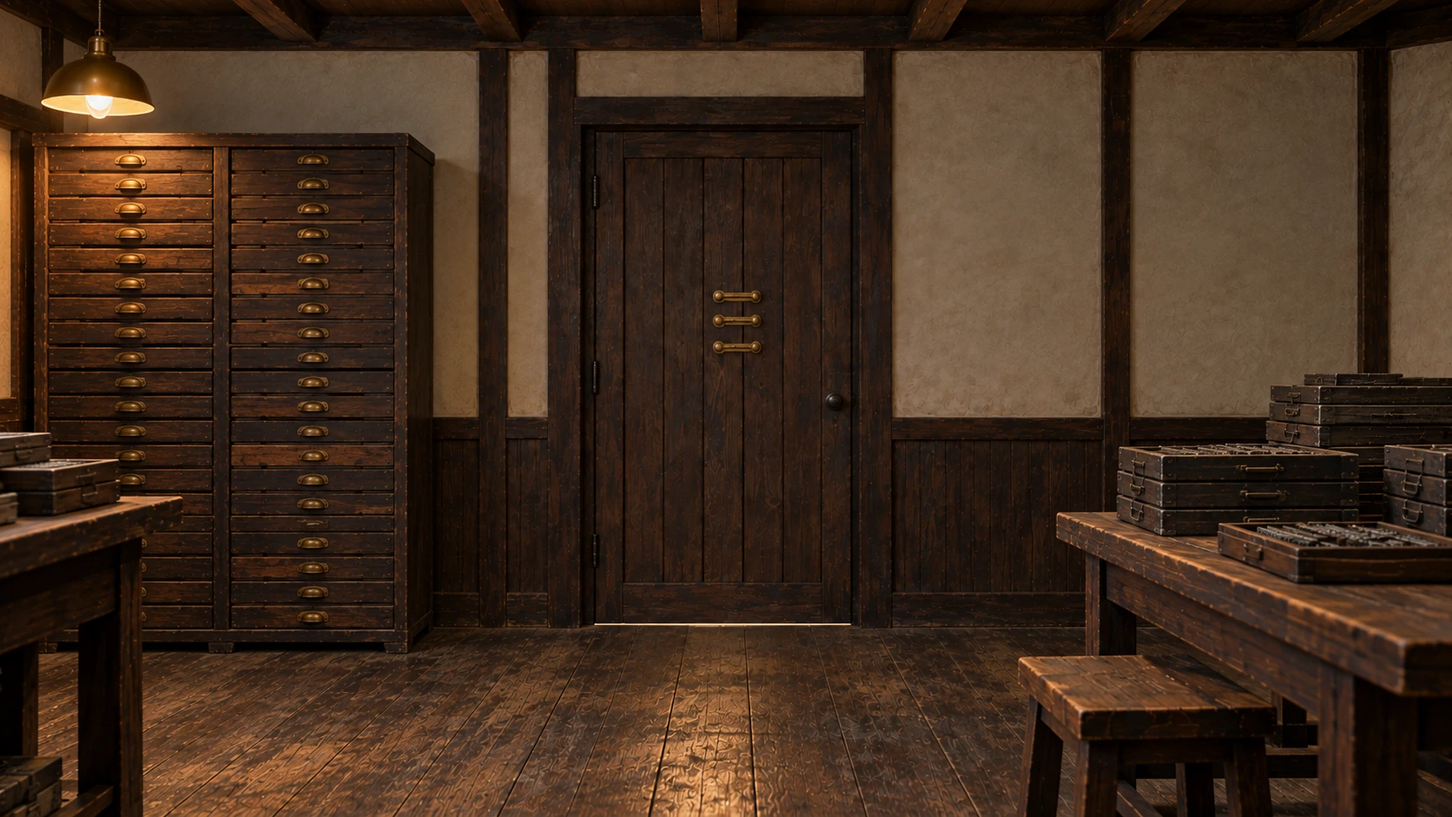
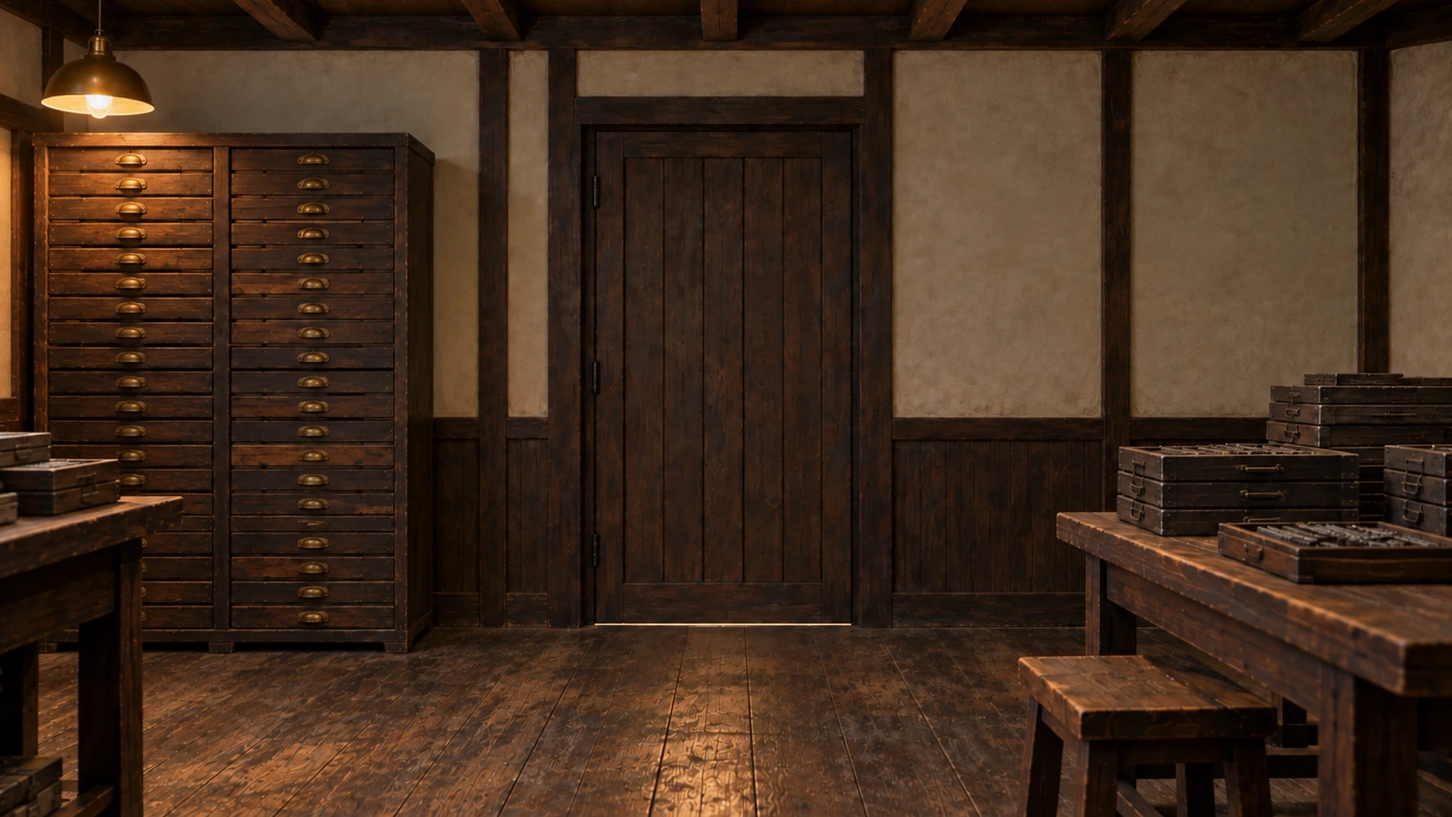
feat(remake): 逃げ溝に沿って外す保守戸とタッチ操作を実装

diff --git a/src/remake/campaign.ts b/src/remake/campaign.ts
@@ -1,3 +1,4 @@
+import {applyKeeper,validKeeper,keeperClear,initialKeeper,type KeeperAction} from './keeper';
 import {matchesSealCode} from './sealOwnership';
 import {applyInterlock,interlockMask,type InterlockAction} from './interlock';
 import {applyThread,type ThreadAction} from './threading';
@@ -11,9 +12,9 @@ export type Focus=ReceptionFocus|`object:${number}`|'office-tickets'|'press-samp
 export type World=Omit<Reception,'version'|'focus'|'inventory'|'selected'>&{version:3;room:number;focus:Focus;inventory:CampaignItem[];selected:CampaignItem|null;visited:number[];lastFacing:Record<number,Facing>;values:Record<number,number[]>;sequences:Record<number,number[]>;solved:number[];opened:number[];collected:CampaignItem[];placed:Record<number,CampaignItem[]>;flags:Record<string,boolean>;notes:string[];itemValues:Record<string,number[]>;finished:boolean;print:PrintState;book:Book};
 export const SAVE='yotsuzuri:remake:v3';
 export const initial=():World=>({...initialReception(),version:3,room:0,visited:[0],lastFacing:{0:0},values:{},sequences:{},solved:[],opened:[],collected:[],placed:{},flags:{},notes:[],itemValues:{},finished:false,print:initialPrint(),book:initialBook()});
-export type Action=InterlockAction|ThreadAction|PressAction|PlateAction|Exclude<ReceptionAction,{type:'focus'}|{type:'select'}>|{type:'focus';focus:Focus}|{type:'select';item:CampaignItem}|{type:'go';room:number;map?:boolean}|{type:'p-set';id:number;values:number[]}|{type:'p-button';id:number;button:number}|{type:'p-release';id:number;index:number}|{type:'p-slide';index:number;position:number}|{type:'p-test';id:number}|{type:'p-open';id:number}|{type:'p-take';id:number;item:CampaignItem}|{type:'p-place';id:number;target?:CampaignItem}|{type:'p-retrieve';id:number;item:CampaignItem}|{type:'observe';note:string}|{type:'item-arrange';item:CampaignItem;values:number[]}|{type:'secret'}|{type:'exit-insert'}|{type:'exit-turn'}|{type:'exit-remove'}|{type:'exit-open'}|{type:'finish'}|{type:'p-cut';id:5}|{type:'p-return-strip';id:5}|{type:'p-paper';id:6;index:number}|{type:'p-book-order';id:30;order:number[]}|{type:'p-book-blank';id:30;position:number}|{type:'p-book-side';id:30}|{type:'p-book-close';id:30}|{type:'p-book-clamp';id:30};
-export function validWorldValue(id:number,values:unknown):values is number[]{if(!Array.isArray(values))return false;if(id===9)return values.length===4&&values.every(n=>Number.isInteger(n)&&n>=0&&n<4);return legacyValidValue(id,values);}
-export const value=(g:World,id:number)=>g.values[id]??(id===11?[7,0]:id===12?[2,0,1,0]:initials[id]);
+export type Action=KeeperAction|InterlockAction|ThreadAction|PressAction|PlateAction|Exclude<ReceptionAction,{type:'focus'}|{type:'select'}>|{type:'focus';focus:Focus}|{type:'select';item:CampaignItem}|{type:'go';room:number;map?:boolean}|{type:'p-set';id:number;values:number[]}|{type:'p-button';id:number;button:number}|{type:'p-release';id:number;index:number}|{type:'p-slide';index:number;position:number}|{type:'p-test';id:number}|{type:'p-open';id:number}|{type:'p-take';id:number;item:CampaignItem}|{type:'p-place';id:number;target?:CampaignItem}|{type:'p-retrieve';id:number;item:CampaignItem}|{type:'observe';note:string}|{type:'item-arrange';item:CampaignItem;values:number[]}|{type:'secret'}|{type:'exit-insert'}|{type:'exit-turn'}|{type:'exit-remove'}|{type:'exit-open'}|{type:'finish'}|{type:'p-cut';id:5}|{type:'p-return-strip';id:5}|{type:'p-paper';id:6;index:number}|{type:'p-book-order';id:30;order:number[]}|{type:'p-book-blank';id:30;position:number}|{type:'p-book-side';id:30}|{type:'p-book-close';id:30}|{type:'p-book-clamp';id:30};
+export function validWorldValue(id:number,values:unknown):values is number[]{if(!Array.isArray(values))return false;if(id===15)return validKeeper(values);if(id===9)return values.length===4&&values.every(n=>Number.isInteger(n)&&n>=0&&n<4);return legacyValidValue(id,values);}
+export const value=(g:World,id:number)=>g.values[id]??(id===15?initialKeeper():id===11?[7,0]:id===12?[2,0,1,0]:initials[id]);
 export const placed=(g:World,id:number,item:CampaignItem)=>g.placed[id]?.includes(item)??false;
 export function gateOpen(g:World,gate?:Portal['gate']){if(!gate)return true;switch(gate){case'office':return g.doorOpen;case'workshop':return g.opened.includes(7);case'archive':return g.opened.includes(15);case'shelves':return value(g,16)[0]===4&&g.solved.includes(16);case'secret':return !!g.flags.secret;}}
 export function route(g:World,to:number){const queue:[number,number[]][]=[[g.room,[]]],seen=new Set([g.room]);while(queue.length){const [n,path]=queue.shift()!;if(n===to)return path;for(const p of portals.filter(p=>p.from===n&&gateOpen(g,p.gate)))if(!seen.has(p.to)){seen.add(p.to);queue.push([p.to,[...path,p.to]])}}return null;}
@@ -22,6 +23,7 @@ const hasMaterials=(g:World,id:number)=>objectById(id)!.physical.every(n=>id===5
 export const carriedPlates=(g:World)=>g.inventory.includes('plates')||placed(g,12,'plates')?g.itemValues.plates??[]:[];
 export function validItemArrangement(item:string,values:unknown):values is number[]{if(!Object.hasOwn(itemNames,item)||!Array.isArray(values)||values.length>16||values.some(n=>!Number.isInteger(n)||n<0||n>12))return false;if(item==='plates')return values.length<=2&&new Set(values).size===values.length&&values.every(n=>n>=0&&n<4);if(item==='keyparts')return values.length===6&&values.every(n=>n>=1&&n<=4);if(item==='receipts')return values.length===3&&values.every(n=>n<=2);if(item==='register')return values.length===1&&values[0]>=4&&values[0]<=8;return true;}
 export function apply(s:World,a:Action):{world:World;message?:string}{
+if(a.type==='p-keeper-slide'||a.type==='p-keeper-pull'||a.type==='p-keeper-return'||a.type==='p-keeper-leaf')return applyKeeper(s,a);
 if(a.type==='p-loop')return applyInterlock(s,a);
 if(a.type==='p-thread-flip'||a.type==='p-thread-pull')return applyThread(s,a);
 if(a.type==='p-press-paper'||a.type==='p-press-select'||a.type==='p-print'||a.type==='p-new-sheet'||a.type==='p-take-print')return applyPress(s,a);
@@ -47,12 +49,12 @@ case'p-book-clamp':if(!g.book.closed||!['gatherings','needle','thread','frame','
 case'p-paper':if(a.index<0||a.index>2||!Number.isInteger(a.index))return{world:s};g.flags[`paper:6:${a.index}`]=!g.flags[`paper:6:${a.index}`];g.values[6]=[a.index,g.flags[`paper:6:${a.index}`]?1:0];solve(6);break;
 case'p-cut':if(g.selected!=='knife'||!g.inventory.includes('knife'))return{world:s,message:g.selected?'この道具では切れない。':'紙を切る道具が要る。'};if(g.inventory.includes('register')||placed(g,12,'register'))return{world:s,message:'先に、持っている紙片を台へ戻せる。'};if(![4,5,6,7,8].includes(value(g,5)[0]))return{world:s};g.inventory.push('register');if(!g.collected.includes('register'))g.collected.push('register');g.itemValues.register=[value(g,5)[0]];g.flags['cut:5']=true;g.selected=null;solve(5);break;
 case'p-return-strip':if(!g.inventory.includes('register'))return{world:s};g.inventory=g.inventory.filter(x=>x!=='register');g.collected=g.collected.filter(x=>x!=='register');g.flags['cut:5']=false;g.selected=null;break;
-case'p-set':if(id===11)return{world:s};if(id===12&&(g.flags['press:paper-down']||![0,1].includes(a.values[2])||![0,1,2].includes(a.values[3])))return{world:s};if(!validWorldValue(id,a.values))return{world:s};if(id===22&&(!placed(g,22,'gatherings')||g.book.clamped))return{world:s};g.values[id]=a.values;if(id===22)g.book.order=[...a.values.slice(0,6)];if(id===27)g.flags['attempt:27']=false;if(![5,6,10,12,17,19,21,23,25,27,29].includes(id))solve(id);break;
+case'p-set':if(id===11||id===15)return{world:s};if(id===12&&(g.flags['press:paper-down']||![0,1].includes(a.values[2])||![0,1,2].includes(a.values[3])))return{world:s};if(!validWorldValue(id,a.values))return{world:s};if(id===22&&(!placed(g,22,'gatherings')||g.book.clamped))return{world:s};g.values[id]=a.values;if(id===22)g.book.order=[...a.values.slice(0,6)];if(id===27)g.flags['attempt:27']=false;if(![5,6,10,12,17,19,21,23,25,27,29].includes(id))solve(id);break;
 case'p-button':if(id!==7||a.button<0||a.button>(id===7?3:5))return{world:s};g.sequences[id]=[...(g.sequences[id]??[]),a.button].slice(-4);solve(id);break;
-case'p-release':{const v=[...value(g,id)],order=id===15?[1,2,0]:[2,0,1];if(![1,15,18].includes(id)||a.index<0||a.index>=v.length)return{world:s};const blocked=id===1?[[],[0],[1,3],[]][a.index].some(i=>!v[i]):order.find(i=>!v[i])!==a.index;if(blocked)return{world:s,message:'重なった縁に掛かっている。'};v[a.index]=1;g.values[id]=v;solve(id);break;}
+case'p-release':{if(id===15)return{world:s};const v=[...value(g,id)],order=id===15?[1,2,0]:[2,0,1];if(![1,15,18].includes(id)||a.index<0||a.index>=v.length)return{world:s};const blocked=id===1?[[],[0],[1,3],[]][a.index].some(i=>!v[i]):order.find(i=>!v[i])!==a.index;if(blocked)return{world:s,message:'重なった縁に掛かっている。'};v[a.index]=1;g.values[id]=v;solve(id);break;}
 case'p-slide':{const v=[...value(g,16)];if(!canSlide(v,a.index,a.position))return{world:s,message:'棚が当たって動かない。'};v[a.index]=a.position;g.values[16]=v;solve(16);break;}
-case'p-test':if(id===11||id===12||id===13)return{world:s};if(!hasMaterials(g,id))return{world:s,message:'部品がまだ揃っていない。'};solve(id);g.flags[`attempt:${id}`]=true;if(id===27&&!solvedValue(logical(g),27))message='まだ引けない。';break;
-case'p-open':if(id===9){if(!matchesSealCode(value(g,9)))return{world:s,message:'まだ開かない。'};if(!g.solved.includes(9))g.solved.push(9);if(!g.opened.includes(9))g.opened.push(9);break;}if(id===11){if(interlockMask(g)!==0)return{world:s,message:'留めが残っている。'};if(!g.solved.includes(11))g.solved.push(11);if(!g.opened.includes(11))g.opened.push(11);break;}if(!g.solved.includes(id)||([4,8].includes(id)&&!solvedValue(logical(g),id)))return{world:s,message:'留め金が掛かっている。'};if(!g.opened.includes(id))g.opened.push(id);if([7,15].includes(id))g.focus="room";break;
+case'p-test':if(id===11||id===12||id===13||id===15)return{world:s};if(!hasMaterials(g,id))return{world:s,message:'部品がまだ揃っていない。'};solve(id);g.flags[`attempt:${id}`]=true;if(id===27&&!solvedValue(logical(g),27))message='まだ引けない。';break;
+case'p-open':if(id===15){if(!keeperClear(g)||!g.flags['keeper:leaf'])return{world:s,message:'留めが残っている。'};if(!g.opened.includes(15))g.opened.push(15);g.focus='room';break;}if(id===9){if(!matchesSealCode(value(g,9)))return{world:s,message:'まだ開かない。'};if(!g.solved.includes(9))g.solved.push(9);if(!g.opened.includes(9))g.opened.push(9);break;}if(id===11){if(interlockMask(g)!==0)return{world:s,message:'留めが残っている。'};if(!g.solved.includes(11))g.solved.push(11);if(!g.opened.includes(11))g.opened.push(11);break;}if(!g.solved.includes(id)||([4,8].includes(id)&&!solvedValue(logical(g),id)))return{world:s,message:'留め金が掛かっている。'};if(!g.opened.includes(id))g.opened.push(id);if([7,15].includes(id))g.focus="room";break;
 case'p-take':if(id===10||id===12)return{world:s};if(!o.rewards.includes(a.item)||!g.solved.includes(id)||(o.box&&!g.opened.includes(id))||g.collected.includes(a.item))return{world:s};g.inventory.push(a.item);g.collected.push(a.item);if(id===21)g.placed[id]=[];break;
 case'p-place':if(a.target&&g.selected!==a.target)return{world:s,message:g.selected?'形が合わない。':undefined};if(id===12&&g.selected==='plates'&&g.itemValues.plates?.length!==2)return{world:s,message:'版を二枚合わせる台がある。'};if(!g.selected||!o.physical.includes(g.selected)||placed(g,id,g.selected))return{world:s,message:g.selected?'形が合わない。':undefined};if(id===12&&g.selected==='register'&&g.itemValues.register?.[0]!==6)return{world:s,message:'溝の端と、長さが合わない。'};if(id===22&&g.selected==='gatherings')g.values[22]=[...g.book.order,g.values[22]?.[6]??0];if(id===30&&g.selected==='keyparts')g.values[30]=[...(g.itemValues.keyparts??initials[30])];g.placed[id]=[...(g.placed[id]??[]),g.selected];g.inventory=g.inventory.filter(n=>n!==g.selected);g.selected=null;break;
 case'p-retrieve':if(!placed(g,id,a.item))return{world:s};if(id===30&&g.book.clamped&&['gatherings','blanks','frame','clamp'].includes(a.item))return{world:s,message:'締め具を緩めれば取り出せる。'};g.placed[id]=g.placed[id].filter(n=>n!==a.item);g.inventory.push(a.item);g.selected=null;if(id===30&&a.item==='keyparts')g.itemValues.keyparts=[...value(g,30)];break;
@@ -70,4 +72,4 @@ if(g.room!==0&&!['turn','back','settings','start'].includes(a.type))return{world
 const base=applyReception({...g,version:2,focus:g.focus as ReceptionFocus,inventory:g.inventory as Reception['inventory'],selected:g.selected as Reception['selected']},a as ReceptionAction);
 return{world:{...g,...base.world,version:3,inventory:base.world.inventory as CampaignItem[],selected:base.world.selected as CampaignItem|null},message:base.message};
 }
-export function readSave(raw:string|null):World|null{try{const g=JSON.parse(raw??'null');if(!g)return null;if(g.version===2){const r=readReception(raw);return r?{...initial(),...r,version:3}:null;}if(g.version!==3||!Number.isInteger(g.room)||g.room<0||g.room>10||![0,1,2,3].includes(g.facing))return null;if(!Array.isArray(g.inventory)||g.inventory.some((n:string)=>!Object.hasOwn(itemNames,n))||new Set(g.inventory).size!==g.inventory.length)return null;for(const k of ['visited','solved','opened','collected','notes'])if(!Array.isArray(g[k]))return null;for(const k of ['values','sequences','placed','flags','itemValues','lastFacing'])if(!g[k]||typeof g[k]!=='object'||Array.isArray(g[k]))return null;for(const [k,v]of Object.entries(g.values))if(!validWorldValue(+k,v as number[]))return null;if(g.book!==undefined&&!validBook(g.book))return null;if(g.print!==undefined&&!validPrint(g.print))return null;for(const [k,v]of Object.entries(g.itemValues))if(!validItemArrangement(k,v))return null;return{...initial(),...g,selected:null};}catch{return null}}
+export function readSave(raw:string|null):World|null{try{const g=JSON.parse(raw??'null');if(!g)return null;if(g.version===2){const r=readReception(raw);return r?{...initial(),...r,version:3}:null;}if(g.version!==3||!Number.isInteger(g.room)||g.room<0||g.room>10||![0,1,2,3].includes(g.facing))return null;if(!Array.isArray(g.inventory)||g.inventory.some((n:string)=>!Object.hasOwn(itemNames,n))||new Set(g.inventory).size!==g.inventory.length)return null;for(const k of ['visited','solved','opened','collected','notes'])if(!Array.isArray(g[k]))return null;for(const k of ['values','sequences','placed','flags','itemValues','lastFacing'])if(!g[k]||typeof g[k]!=='object'||Array.isArray(g[k]))return null;if(Array.isArray(g.values[15])&&g.values[15].length===3&&g.values[15].every((n:number)=>n===0||n===1))g.values[15]=[0,1,2,...g.values[15]];for(const [k,v]of Object.entries(g.values))if(!validWorldValue(+k,v as number[]))return null;if(g.book!==undefined&&!validBook(g.book))return null;if(g.print!==undefined&&!validPrint(g.print))return null;for(const [k,v]of Object.entries(g.itemValues))if(!validItemArrangement(k,v))return null;return{...initial(),...g,selected:null};}catch{return null}}

diff --git a/src/remake/Remake.tsx b/src/remake/Remake.tsx
@@ -1,3 +1,4 @@
+import {KeeperDoor} from './KeeperDoor';
 import {SealCases,type SealView} from './SealCases';
 import {ThreadChart} from './ThreadChart';
 import {PressSamples} from './PressSamples';
@@ -38,6 +39,7 @@ const image=(name:string,group='scenes/reception')=>import.meta.env.BASE_URL+'re
 type Area={name:string;rect:[number,number,number,number];action:()=>void;shape?:string;priority?:number};
 function load(){try{return readSave(localStorage.getItem(SAVE))??readSave(localStorage.getItem(RECEPTION_SAVE))??initial()}catch{return initial()}}
 export default function Remake(){
+const [keeperZoom,setKeeperZoom]=useState(false);
 const [sealView,setSealView]=useState<SealView>('all');
 const [threadZoom,setThreadZoom]=useState(false);
 const [pressView,setPressView]=useState<PressView>('all');
@@ -46,12 +48,12 @@ const photo=usePhoto(sceneFiles(worldState));const visibleWorld=useRef(worldStat
 useOverlayFocus(Boolean(panel||inspect||boundary));
 const world=useRef(worldState),timer=useRef<ReturnType<typeof setTimeout>|null>(null);world.current=worldState;
 const say=(text:string)=>{setToast(text);if(timer.current)clearTimeout(timer.current);timer.current=setTimeout(()=>setToast(''),2400)};
-const act=(a:Action)=>{if(a.type==='back'&&world.current.focus==='object:9'&&sealView!=='all'){setSealView('all');return;}if(a.type==='back'&&world.current.focus==='object:13'&&threadZoom){setThreadZoom(false);return;}if(a.type==='back'&&world.current.focus==='object:12'&&pressView!=='all'){setPressView('all');return;}const before=world.current;const r=apply(before,a);world.current=r.world;setG(r.world);if(r.message)say(r.message);else if(r.world!==before){if(timer.current)clearTimeout(timer.current);setToast('');}};
+const act=(a:Action)=>{if(a.type==='back'&&world.current.focus==='object:15'&&keeperZoom){setKeeperZoom(false);return;}if(a.type==='back'&&world.current.focus==='object:9'&&sealView!=='all'){setSealView('all');return;}if(a.type==='back'&&world.current.focus==='object:13'&&threadZoom){setThreadZoom(false);return;}if(a.type==='back'&&world.current.focus==='object:12'&&pressView!=='all'){setPressView('all');return;}const before=world.current;const r=apply(before,a);world.current=r.world;setG(r.world);if(r.message)say(r.message);else if(r.world!==before){if(timer.current)clearTimeout(timer.current);setToast('');}};
 useEffect(()=>{try{localStorage.setItem(SAVE,JSON.stringify(worldState));setSaveFailed(false)}catch{setSaveFailed(true)}},[worldState]);
-useEffect(()=>{const key=(e:KeyboardEvent)=>{if(e.key==='Escape'){if(panel)setPanel(null);else if(inspect)setInspect(null);else if(boundary)setBoundary(false);else act({type:'back'})}else if(photo.ready&&!panel&&!inspect&&!boundary&&e.target instanceof HTMLElement&&!['INPUT','BUTTON'].includes(e.target.tagName)){if(e.key==='ArrowLeft')act({type:'turn',delta:-1});if(e.key==='ArrowRight')act({type:'turn',delta:1});if(e.key==='ArrowDown')act({type:'back'});}};addEventListener('keydown',key);return()=>removeEventListener('keydown',key)},[panel,inspect,boundary,photo.ready,pressView,threadZoom,sealView]);
+useEffect(()=>{const key=(e:KeyboardEvent)=>{if(e.key==='Escape'){if(panel)setPanel(null);else if(inspect)setInspect(null);else if(boundary)setBoundary(false);else act({type:'back'})}else if(photo.ready&&!panel&&!inspect&&!boundary&&e.target instanceof HTMLElement&&!['INPUT','BUTTON'].includes(e.target.tagName)){if(e.key==='ArrowLeft')act({type:'turn',delta:-1});if(e.key==='ArrowRight')act({type:'turn',delta:1});if(e.key==='ArrowDown')act({type:'back'});}};addEventListener('keydown',key);return()=>removeEventListener('keydown',key)},[panel,inspect,boundary,photo.ready,pressView,threadZoom,sealView,keeperZoom]);
 useEffect(()=>()=>{if(timer.current)clearTimeout(timer.current)},[]);
 useEffect(()=>{for(const facing of [0,1,2,3] as const)for(const url of sceneFiles({...initial(),facing})){const preview=new Image();preview.src=url}},[]);
-const focus=(f:Focus)=>{setSealView('all');setThreadZoom(false);setPressView('all');act({type:'focus',focus:f});};const areas:Area[]=[];
+const focus=(f:Focus)=>{setKeeperZoom(false);setSealView('all');setThreadZoom(false);setPressView('all');act({type:'focus',focus:f});};const areas:Area[]=[];
 if(g.room===1){
 
 if(g.focus==='room'){
@@ -72,6 +74,7 @@ if(id===3)areas.push({name:'三枚の札を近くで見る',rect:[25,16,48,10],a
 }
 }else if(g.room===3){
 if(g.focus==='room'){
+if(g.facing===0)areas.push({name:g.opened.includes(15)?'書庫への戸口':'保守戸の留めを調べる',rect:[40.5,15,18.5,62],action:()=>g.opened.includes(15)?setBoundary(true):focus('object:15')});
 if(g.facing===2)areas.push({name:'校正室へ戻る',rect:[14,16,19,61],action:()=>act({type:'go',room:2})});
 if(g.facing===1)areas.push({name:'印刷室への戸口',rect:[20,18,28,59],action:()=>act({type:'go',room:4})},{name:'天秤の台を調べる',rect:[60,26,28,55],action:()=>focus('object:8')});
 if(g.facing===3)areas.push({name:'製本室への戸口',rect:[73,17,15,59],action:()=>act({type:'go',room:5})},{name:'原版の引出しを調べる',rect:[4.5,38,25,22],action:()=>focus('object:10')});
@@ -121,7 +124,7 @@ const receptionHelp=g.doorOpen?['帳場への戸が開いている。']:g.keyIns
 const help=campaignHints(g)??receptionHelp;
 if(worldState.started&&!photo.hasFrame)return <main className={"remake "+(worldState.reducedMotion?"still":"")} aria-busy={!photo.failed}>{photo.failed?<button onClick={photo.retry}>画像を再読み込み</button>:<div className="r-loading" role="status" aria-label="読み込み中"/>}</main>;
 if(!g.started)return <main className="remake-title" style={{backgroundImage:`url(${image('north-notice')})`}}><div><p>夜綴</p><span>YOTSUZURI</span><button onClick={()=>act({type:'start'})}>はじめる</button><small></small></div></main>;
-return <main className={'remake '+(g.reducedMotion?'still ':'')+(g.outlines?'outlines':'')} style={{'--light':g.brightness} as CSSProperties}><div className={"r-stage "+(g.focus==="object:9"?(sealView.startsWith("fragment:")?"r-seal-held":sealView.startsWith("trace:")?"r-seal-trace":sealView==="lock"?"r-seal-lock":sealView==="contents"?"r-seal-contents":""):g.focus==="notice"?"r-reading":g.focus==="object:1"?"r-case-reading":g.focus==="object:8"?"r-balance-reading":g.focus==="object:10"?"r-plate-reading":g.focus==="press-samples"?"r-samples-reading":g.focus==="object:11"?"r-interlock-reading":g.focus==="object:13"?(threadZoom?"r-thread-detail":""):g.focus==="object:12"?(pressView==="bed"?"r-press-bed":pressView==="paper"?"r-press-paper":""):"")} aria-busy={!photo.ready}><img className="r-photo" src={photo.shown} draggable={false} alt={g.focus==='room'?rooms[g.room].name+'・'+['北','東','南','西'][g.facing]:'近づいて見た同じ物'}/>{g.room===0&&g.focus==='room'&&g.facing===0&&g.bookOpen?<img className="r-photo r-book-change" src={image('north-book')} alt="" draggable={false}/>:null}
+return <main className={'remake '+(g.reducedMotion?'still ':'')+(g.outlines?'outlines':'')} style={{'--light':g.brightness} as CSSProperties}><div className={"r-stage "+(g.focus==="object:15"?(keeperZoom?"r-keeper-tray":"r-keeper-reading"):g.focus==="object:9"?(sealView.startsWith("fragment:")?"r-seal-held":sealView.startsWith("trace:")?"r-seal-trace":sealView==="lock"?"r-seal-lock":sealView==="contents"?"r-seal-contents":""):g.focus==="notice"?"r-reading":g.focus==="object:1"?"r-case-reading":g.focus==="object:8"?"r-balance-reading":g.focus==="object:10"?"r-plate-reading":g.focus==="press-samples"?"r-samples-reading":g.focus==="object:11"?"r-interlock-reading":g.focus==="object:13"?(threadZoom?"r-thread-detail":""):g.focus==="object:12"?(pressView==="bed"?"r-press-bed":pressView==="paper"?"r-press-paper":""):"")} aria-busy={!photo.ready}><img className="r-photo" src={photo.shown} draggable={false} alt={g.focus==='room'?rooms[g.room].name+'・'+['北','東','南','西'][g.facing]:'近づいて見た同じ物'}/>{g.room===0&&g.focus==='room'&&g.facing===0&&g.bookOpen?<img className="r-photo r-book-change" src={image('north-book')} alt="" draggable={false}/>:null}
 {g.room===0&&g.focus==='room'&&g.facing===0&&g.boxOpen?<PhotoPatch src={image('north-full')} rect={[14.5,37.5,15,22]}/>:null}
 {g.room===0&&g.focus==='room'&&g.facing===0&&!g.boxOpen&&g.latchUp?<PhotoPatch src={image('north-released')} rect={[20.5,48.5,2.3,7]}/>:null}
 {g.focus==='box'&&!g.boxOpen&&g.latchUp?<PhotoPatch src={image('box-released','closeups')} rect={[46,35,7,32]}/>:null}
@@ -131,6 +134,7 @@ return <main className={'remake '+(g.reducedMotion?'still ':'')+(g.outlines?'out
 {g.boxOpen&&g.room===0&&g.focus==='room'&&g.facing===0?<>{g.keyTaken?<PhotoPatch src={image('north-empty')} rect={[18,49,3.5,3]}/>:null}{g.cardTaken?<PhotoPatch src={image('north-empty')} rect={[22,48.8,4.5,3.3]}/>:null}</>:null}
 {g.room===0&&g.focus==='room'&&g.facing===0?<PhotoPatch src={image('north-notice')} rect={[55.5,20,6,14]}/>:null}
 <WorkshopPortals g={g} act={act}/>
+{g.room===3&&g.facing===0&&(g.focus==='room'||g.focus==='object:15')?<KeeperDoor g={g} act={act} wide={g.focus==='room'} enabled={photo.ready} zoom={keeperZoom} onZoom={setKeeperZoom}/>:null}
 {g.room===5&&g.facing===3&&(g.focus==='room'||g.focus==='object:9')?<SealCases g={g} act={act} wide={g.focus==='room'} enabled={photo.ready} view={sealView} onView={setSealView}/>:null}
 {g.room===3&&g.facing===3&&(g.focus==='room'||g.focus==='object:10')?<PlateDrawers g={g} act={act} wide={g.focus==='room'} enabled={photo.ready}/>:null}
 {g.room===1&&g.focus==='room'&&g.facing===1&&g.opened.includes(2)?<><PhotoPatch src={image('east-drawer-open','scenes/office')} rect={[29,60,45,27]}/>{!g.collected.includes('receipts')?<PhotoObject src={image('receipts','items')} rect={[43,66,15,6]} brightness={.84}/>:null}<PhotoDigits values={drumValues(g,2)} windows={[48.1,49.78,51.4].map(x=>({x,y:74.9,width:.65,height:2.1}))}/></>:null}

diff --git a/src/remake/KeeperDoor.tsx b/src/remake/KeeperDoor.tsx
@@ -1,0 +1,36 @@
+import {useId,useState,type PointerEvent} from 'react';
+import {PhotoSprite} from './PhotoSprite';
+import {PhotoControl} from './PhotoControl';
+import {keeperValues} from './keeper';
+import type {World,Action} from './campaign';
+const rows=[216,383,550];
+export function KeeperDoor({g,act,wide=false,enabled=true,zoom=false,onZoom}:{g:World;act:(a:Action)=>void;wide?:boolean;enabled?:boolean;zoom?:boolean;onZoom?:(v:boolean)=>void}){
+ const id=useId().replace(/:/g,''),v=keeperValues(g),count=v.slice(3).filter(Boolean).length,leaf=!!g.flags['keeper:leaf'],open=g.opened.includes(15),base=import.meta.env.BASE_URL+'remake/';
+ const [grab,setGrab]=useState<{index:number;start:number;dy:number}|null>(null);
+ const sourceY=(e:PointerEvent<SVGGElement>)=>{const m=e.currentTarget.ownerSVGElement!.getScreenCTM();return m?new DOMPoint(e.clientX,e.clientY).matrixTransform(m.inverse()).y:e.clientY;};
+ const down=(e:PointerEvent<SVGGElement>,index:number)=>{if(!enabled||leaf)return;e.preventDefault();e.currentTarget.setPointerCapture(e.pointerId);setGrab({index,start:sourceY(e),dy:0});};
+ const move=(e:PointerEvent<SVGGElement>)=>{if(!grab)return;const dy=sourceY(e)-grab.start,position=v[grab.index]+Math.sign(dy),free=position>=0&&position<3&&!v.slice(0,3).some((p,i)=>i!==grab.index&&!v[i+3]&&p===position);setGrab({...grab,dy:Math.sign(dy)*Math.min(Math.abs(dy),free?167:16)});};
+ const up=(e:PointerEvent<SVGGElement>)=>{if(!grab)return;const dy=sourceY(e)-grab.start,index=grab.index;setGrab(null);if(e.currentTarget.hasPointerCapture(e.pointerId))e.currentTarget.releasePointerCapture(e.pointerId);if(Math.abs(dy)>60)act({type:'p-keeper-slide',id:15,index,position:v[index]+Math.sign(dy)});else act({type:'p-keeper-pull',id:15,index});};
+ return <svg className="r-keeper-door" style={{touchAction:'none'}} viewBox={wide?'0 0 1672 941':zoom?'900 530 270 300':'430 0 1000 930'} preserveAspectRatio="none" role="group" aria-label="保守戸の逃げ溝と三つの留め">
+ <defs><clipPath id={id+'metal'}><rect x={open?1120:leaf?906:912} y="49" width={open?290:leaf?505:267} height="757" rx="7"/></clipPath><clipPath id={id+'knob'}><ellipse cx="581" cy="754" rx="122" ry="126"/></clipPath><clipPath id={id+'lip'}><path d="M928 694Q1014 710 1100 691L1095 738H934Z"/></clipPath>{v.slice(0,3).map((position,i)=><clipPath key={i} id={id+'pin'+i}><rect x="996" y={145-(grab?.index===i?grab.dy:0)} width="31" height="462"/><circle cx="1011" cy={383-(grab?.index===i?grab.dy:0)} r="47"/><ellipse cx="1010" cy={rows[position]+28} rx="24" ry="23"/><rect x="998" y={rows[position]+2} width="23" height="31"/></clipPath>)}</defs>
+ <g transform={wide?'translate(874 381) scale(.09)':undefined}>
+ <defs><clipPath id={id+'tray-photo'}><rect x="917" y="563" width="187" height="181"/></clipPath></defs>
+ {!wide?<image href={base+'closeups/p15-keeper-base.webp'} width="1672" height="941"/>:!open?<image href={base+'closeups/p15-keeper-base.webp'} width="1672" height="941" clipPath={`url(#${id}knob)`}/>:null}
+ {(wide||leaf)?<image href={base+`closeups/p15-keeper-${leaf?'open':'base'}.webp`} width="1672" height="941" clipPath={`url(#${id}metal)`}/>:null}
+ {!leaf?<>
+ {count>0?<image href={base+`closeups/p15-tray-${count}.webp`} width="1672" height="941" clipPath={`url(#${id}tray-photo)`}/>:null}
+ {v.slice(0,3).map((position,i)=>v[i+3]?null:<g key={i} transform={`translate(0 ${grab?.index===i?grab.dy:0})`}>
+ <g clipPath={`url(#${id}pin${i})`}><PhotoSprite name="keeper-pin-front" x={969} y={rows[position]-33} width={82} height={80}/></g>
+ {!wide?<g role="button" aria-label={`${['上','中央','下'][i]}の留めを動かす`} tabIndex={enabled?0:-1} aria-disabled={!enabled} onPointerDown={e=>down(e,i)} onPointerMove={move} onPointerUp={up} onPointerCancel={()=>setGrab(null)} onKeyDown={e=>{if(!enabled)return;if(e.key==='ArrowUp'||e.key==='ArrowDown'){e.preventDefault();act({type:'p-keeper-slide',id:15,index:i,position:position+(e.key==='ArrowUp'?-1:1)});}else if(e.key==='Enter'||e.key===' '){e.preventDefault();act({type:'p-keeper-pull',id:15,index:i});}}}><rect className="r-paper-hit" x="943" y={rows[position]-64} width="135" height="128"/></g>:null}
+ </g>)}
+ {!wide&&zoom&&count>0?<PhotoControl label="留めを一つ溝へ戻す" rect={[926,608,174,116]} enabled={enabled} onActivate={()=>act({type:'p-keeper-return',id:15,index:v.slice(3).findIndex(Boolean)})}/>:null}
+ {!wide&&!zoom?<PhotoControl label="受け皿をのぞく" rect={[915,615,195,125]} enabled={enabled} onActivate={()=>onZoom?.(true)}/>:null}
+ </>:null}
+ </g>
+ {wide&&open?<g transform="matrix(.023 0 0 .075 731 392)"><image href={base+'closeups/p15-keeper-base.webp'} width="1672" height="941" clipPath={`url(#${id}knob)`}/></g>:null}
+ {!wide?<>
+ <PhotoControl label={leaf?'留め板を戻す':'留め板を開く'} rect={leaf?[1180,89,184,537]:[906,80,76,520]} enabled={enabled} onActivate={()=>act({type:'p-keeper-leaf',id:15})}/>
+ <PhotoControl label="保守戸の取っ手を回す" rect={[445,624,286,270]} enabled={enabled} onActivate={()=>act({type:'p-open',id:15})}/>
+ </>:null}
+ </svg>;
+}

diff --git a/src/remake/sceneFiles.ts b/src/remake/sceneFiles.ts
@@ -1,3 +1,4 @@
+import {keeperValues} from './keeper';
 import {interlockMask} from './interlock';
 import {threadPhoto,threadProgress} from './threading';
 import {value,type World} from './campaign';
@@ -6,6 +7,7 @@ export const photoPath=(name:string,group='closeups')=>import.meta.env.BASE_URL+
 export function mainPhoto(g:World):string{
 const close=(n:string)=>photoPath(n),room=(n:string)=>photoPath(n,`scenes/${rooms[g.room].key}`);
 if(g.room===0){if(g.focus==='room')return room(g.facing===0?'north-closed':g.facing===1?g.doorOpen?'east-open':'east-closed':directions[g.facing]);const names={box:g.boxOpen?'box-full':'box-closed',book:'book-open',lock:'lock-empty',notice:'notice',front:'front-chain',passage:'service-window','object:1':'p01-empty'};return close(names[g.focus as keyof typeof names]??'box-closed')}
+if(g.room===3&&g.facing===0&&g.focus==='room'&&g.opened.includes(15))return room('north-door-open');
 if(g.focus==='room')return room(g.room===2&&g.facing===3?'west-empty':directions[g.facing]);
 if(g.focus==='press-samples')return close('press-samples');
 if(g.focus==='office-tickets')return close('office-tickets');
@@ -13,6 +15,7 @@ const id=+g.focus.slice(7),open=g.opened.includes(id),p=`p${String(id).padStart(
 if([2,3,26].includes(id)){if(open&&id===2&&!g.collected.includes('receipts'))return close('p02-open-full');if(open&&id===3&&!g.collected.includes('folios'))return close('p03-open-full');return close(`${p}-${open?'open-empty':'closed'}`)}
 if(id===27)return close('p27-close');
 if(id===22)return close('p22-cradle');
+if(id===15)return close('p15-keeper-base');
 if(id===9)return close('p09-cases-base');
 if(id===11)return close('p11-closed');
 if(id===13)return close(threadPhoto(g));
@@ -26,6 +29,7 @@ export function sceneFiles(g:World):string[]{
 const files=[mainPhoto(g)],add=(n:string,group='closeups')=>files.push(photoPath(n,group));
 for(const item of g.inventory){if(item==='proof'){add('print-paper','parts');continue;}if(item==='plates'){for(const i of g.itemValues.plates??[])add(`plate-${i}`,'parts');continue;}add(item==='register'?'paper-strip':item,'items');if(item==='folios')for(const n of ['folio-open','folio-folded','folio-book'])add(n,'items');if(item==='receipts')add('receipt-single','items')}
 if(g.inventory.includes('keyparts')||g.focus==='object:26'&&g.opened.includes(26))for(const n of ['key-shaft','key-tooth','key-blade'])add(n,'parts');
+if(g.room===3&&g.facing===0&&(g.focus==='room'||g.focus==='object:15')){add('p15-keeper-base');add('keeper-pin-front','parts');const count=keeperValues(g).slice(3).filter(Boolean).length;if(count&&!g.flags['keeper:leaf'])add(`p15-tray-${count}`);if(g.flags['keeper:leaf']||g.focus==='object:15')add('p15-keeper-open');if(g.focus==='object:15')for(const n of [1,2,3])add(`p15-tray-${n}`);}
 if(g.focus==='object:9'||g.room===5&&g.facing===3&&g.focus==='room'){add('p09-cases-base');for(const i of [0,1,2,3])add(`seal-front-${i}`,'parts');for(const shape of ['angular','round'])add(`seal-back-${shape}`,'parts');if(g.opened.includes(9)){add('p09-open-empty');if(!g.collected.includes('corner'))add('corner','items');if(!g.collected.includes('threadchart'))add('threadchart','items');}}
 if(g.room===3&&g.facing===3&&g.focus==='room')files.push(...sceneFiles({...g,room:5,facing:3,focus:'room'}));
 if(g.room===5&&g.facing===1&&g.focus==='room')files.push(...sceneFiles({...g,room:3,facing:1,focus:'room'}));

diff --git a/src/remake/hints.ts b/src/remake/hints.ts
@@ -6,6 +6,7 @@ if(g.room===5&&g.focus==='object:13')return g.solved.includes(13)?['針と、ほ
 if(g.room===5)return ['箱、綴じ見本、断裁片が作業台に残っている。'];
 if(g.room===4&&g.focus==='object:12')return ['台へ近づくと、版と押さえを扱える。紙のある棚にも近づける。','紙の端で裏表を返し、反対側の端で見当をずらせる。台と紙の小さな十字を見比べる。','紙を重ねてから取っ手を動かす。紙を持ち上げれば、版を替えられる。','同じ紙に二枚分を刷る。新しい紙へ換えれば、何度でもやり直せる。','黒い模様ではなく、二度刷っても白く残った輪郭を見る。'];
 if(g.room===4)return ['北側に刷り機、南の作業台に留め輪がある。'];
+if(g.room===3&&g.focus==='object:15')return ['留めの頭は、細い溝からは抜けない。中央だけ大きく開いている。','まず中央の留めを手前へ抜く。上下の留めは溝に沿って動かせる。','空いた中央へ一つずつ移し、手前へ抜く。上下の順はどちらでもよい。','三つを外したら、縦の留め板を開き、丸い取っ手を回す。'];
 if(g.room===3&&g.focus==='object:10')return ['引出しの版は、手元で大きく観察できる。持ち出した版も元へ戻せる。','同じ輪郭でも、盛り上がった面と、掘り込まれた面がある。縁の影を見る。','紙に触れるのは高い面。凹んだ模様を、そのまま刷れるわけではない。','上と下の引出しの版は、模様の部分が盛り上がっている。'];
 if(g.room===3&&g.focus==='object:8')return g.opened.includes(8)?['引出しに、刷り機の押さえがある。']:['重りは、持ってから皿へ置ける。台へ戻すこともできる。','三つの重りを左右に分け、横棒を水平にする。','二と三の重りを同じ皿へ、五の重りを反対側へ置く。留め金が上がったら、引出しを引く。'];
 if(g.room===0&&g.focus==='object:1')return ['木札の端に、隣の札を押さえる出っ張りがある。','上の札は二枚目の右端を、二枚目と下の札は三枚目の両端を押さえている。','上と下は、どちらからでも抜ける。出っ張りが外れた札を順に取る。'];

diff --git a/src/remake/keeper.test.ts b/src/remake/keeper.test.ts
@@ -1,0 +1,28 @@
+import {describe,it,expect} from 'vitest';
+import {apply,initial,readSave,type World} from './campaign';
+import {keeperValues,keeperClear,validKeeper} from './keeper';
+const start=():World=>({...initial(),room:3,facing:0,focus:'object:15'});
+describe('中央の逃げ口を通る三つの留め',()=>{
+ it('頭が通る開口と、現在の部品同士の接触で制約する',()=>{
+  const g=start();expect(apply(g,{type:'p-keeper-pull',id:15,index:0}).world).toBe(g);
+  expect(apply(g,{type:'p-keeper-slide',id:15,index:0,position:1}).world).toBe(g);
+  const center=apply(g,{type:'p-keeper-pull',id:15,index:1}).world;
+  expect(keeperValues(center)).toEqual([0,1,2,0,1,0]);
+  expect(apply(center,{type:'p-keeper-slide',id:15,index:0,position:2}).world).toBe(center);
+ });
+ it('中央を外した後は上下どちらからでも開けられ、戻すこともできる',()=>{
+  for(const order of [[0,2],[2,0]]){let g=apply(start(),{type:'p-keeper-pull',id:15,index:1}).world;
+   for(const index of order){g=apply(g,{type:'p-keeper-slide',id:15,index,position:1}).world;g=apply(g,{type:'p-keeper-pull',id:15,index}).world;}
+   expect(keeperClear(g)).toBe(true);expect(apply(g,{type:'p-open',id:15}).world.opened).not.toContain(15);
+   const undone=apply(g,{type:'p-keeper-return',id:15,index:0}).world;
+   expect(keeperClear(undone)).toBe(false);expect(apply(undone,{type:'p-keeper-leaf',id:15}).world.flags['keeper:leaf']).not.toBe(true);
+   g=apply(g,{type:'p-keeper-leaf',id:15}).world;expect(apply(g,{type:'p-open',id:15}).world.opened).toContain(15);
+  }
+ });
+ it('途中状態を保存し、不可能な重なりを受け入れない',()=>{
+  let g=apply(start(),{type:'p-keeper-pull',id:15,index:1}).world;g=apply(g,{type:'p-keeper-slide',id:15,index:2,position:1}).world;
+  expect(keeperValues(readSave(JSON.stringify(g))!)).toEqual([0,1,1,0,1,0]);
+  expect(validKeeper([1,1,2,0,0,0])).toBe(false);
+  expect(apply(g,{type:'p-release',id:15,index:0}).world).toBe(g);
+ });
+});

diff --git a/src/remake/keeper.ts b/src/remake/keeper.ts
@@ -1,0 +1,30 @@
+import type {World} from './campaign';
+export type KeeperAction={type:'p-keeper-slide';id:15;index:number;position:number}|{type:'p-keeper-pull'|'p-keeper-return';id:15;index:number}|{type:'p-keeper-leaf';id:15};
+export const initialKeeper=()=>[0,1,2,0,0,0];
+export const keeperValues=(g:World)=>g.values[15]??initialKeeper();
+export function validKeeper(v:unknown):v is number[]{if(!Array.isArray(v)||v.length!==6||v.some(n=>!Number.isInteger(n)))return false;if(v.slice(0,3).some(n=>n<0||n>2)||v.slice(3).some(n=>n<0||n>1))return false;const positions=v.slice(0,3).filter((_,i)=>!v[i+3]);return new Set(positions).size===positions.length;}
+export const keeperClear=(g:World)=>keeperValues(g).slice(3).every(Boolean);
+export function applyKeeper(s:World,a:KeeperAction):{world:World;message?:string}{
+ if(s.room!==3||s.facing!==0||s.focus!=='object:15'||s.opened.includes(15))return {world:s};
+ const g=structuredClone(s),v=[...keeperValues(s)];
+ if(a.type==='p-keeper-leaf'){
+  if(!keeperClear(s))return {world:s,message:'頭が、溝の縁に掛かっている。'};
+  g.flags['keeper:leaf']=!g.flags['keeper:leaf'];return {world:g};
+ }
+ if(g.flags['keeper:leaf']||!Number.isInteger(a.index)||a.index<0||a.index>2)return {world:s};
+ const i=a.index,occupied=(position:number)=>v.slice(0,3).some((p,j)=>j!==i&&!v[j+3]&&p===position);
+ if(a.type==='p-keeper-slide'){
+  if(v[i+3]||!Number.isInteger(a.position)||a.position<0||a.position>2||Math.abs(a.position-v[i])!==1)return {world:s};
+  if(occupied(a.position))return {world:s,message:'隣の留めに当たっている。'};
+  v[i]=a.position;
+ }else if(a.type==='p-keeper-pull'){
+  if(v[i+3])return {world:s};
+  if(v[i]!==1)return {world:s,message:'頭が、溝の縁に掛かっている。'};
+  v[i+3]=1;
+ }else{
+  if(!v[i+3]||occupied(1))return {world:s};v[i]=1;v[i+3]=0;
+ }
+ g.values[15]=v;
+ if(v.slice(3).every(Boolean)&&!g.solved.includes(15))g.solved.push(15);
+ return {world:g};
+}

diff --git a/src/remake/remake.css b/src/remake/remake.css
@@ -52,3 +52,8 @@ button,[role=button],.r-paper-hit{-webkit-tap-highlight-color:transparent}.r-loa
 .r-proof-sample-layer,.r-proof-samples{position:absolute;inset:0;width:100%;height:100%;pointer-events:none;filter:brightness(var(--light))}.r-stage.r-samples-reading{width:min(96vw,calc((100svh - 90px)*1.26966));aspect-ratio:1130/890}
 
 .r-seal-cases{position:absolute;inset:0;width:100%;height:100%;filter:brightness(var(--light))}.r-seal-cases [role=button]{outline:none!important}.r-stage.r-seal-trace{width:min(96vw,520px,calc((100svh - 90px)*.9434));aspect-ratio:250/265}.r-stage.r-seal-lock{width:min(96vw,800px,calc((100svh - 90px)*1.7647));aspect-ratio:300/170}.r-stage.r-seal-contents{width:min(96vw,800px,calc((100svh - 90px)*1.25));aspect-ratio:425/340}.r-stage.r-seal-held{width:min(96vw,calc((100svh - 90px)*.8));aspect-ratio:800/1000}.r-seal-fragment{position:absolute;inset:0;background:#11160f;filter:brightness(var(--light))}.r-chart-inspection{width:min(90vw,calc(72svh * 1.3846),900px);aspect-ratio:900/650}
+
+.r-keeper-door{position:absolute;inset:0;width:100%;height:100%;filter:brightness(var(--light))}.r-keeper-door [role=button]{outline:none!important;touch-action:none}.r-stage.r-keeper-reading{width:min(96vw,calc((100svh - 90px)*1.07527));aspect-ratio:1000/930}
+
+.r-stage.r-keeper-tray{width:min(96vw,600px,calc((100svh - 90px)*.9));aspect-ratio:270/300}
+.r-stage.r-keeper-reading,.r-stage.r-keeper-tray{touch-action:none}

diff --git a/src/remake/photoBounds.ts b/src/remake/photoBounds.ts
@@ -499,5 +499,25 @@ export const photoBounds:Record<string,{width:number;height:number;bounds:[numbe
       797,
       1150
     ]
+  },
+  "parts/keeper-pin-front": {
+    "width": 1254,
+    "height": 1254,
+    "bounds": [
+      176,
+      106,
+      901,
+      1025
+    ]
+  },
+  "parts/keeper-pin-loose": {
+    "width": 1254,
+    "height": 1254,
+    "bounds": [
+      120,
+      127,
+      1054,
+      939
+    ]
   }
 };

diff --git a/docs/remake/12_KEEPER_PROGRESS.md b/docs/remake/12_KEEPER_PROGRESS.md
@@ -1,0 +1,23 @@
+# P15 逃げ溝と三つの留め
+
+旧版の三本の独立した腕と固定順[1,2,0]は採用しない。戸と柱を跨ぐ蝶番付きの留め板に、一本の縦溝と中央だけ大きい逃げ口を置いた。三つの留めは頭が溝より大きく、中央まで動かした時だけ抜ける。
+
+初期配置は上・中央・下。中央を抜いた後は、上→下でも下→上でも成立する。他の留めを追い越す移動は不可。抜いた物は受け皿に残り、中央が空いていれば一つずつ戻せる。全てを抜いてから板の自由端を開き、別操作で戸の丸い取っ手を回す。開扉は実際の現在状態から判定する。正解履歴だけでは通さない。
+
+`keeper.ts`に位置3値と取り外し3値を保持。旧3値の途中データは位置と取り外し状態へ移行する。全景と接写は同じ金具・ピン・受け皿写真を参照。開いた板は柱側へ残り、戸上の取っ手は開いた戸の面へ移す。
+
+## 不合格と修正
+
+- 最初の板写真は自由な板まで四本のねじで固定していた。ねじを消した写真へ変更。
+- 開いた板写真はガイドに三つの穴があり、連続スライドと矛盾していた。一本の連続溝へ変更。閉じた時と溝の位置がずれた候補も不採用にし、軸が一致した版へ再生成した。
+- 受け皿の透過部品を重ねた表示では、手前の縁との重なりが不自然だった。1・2・3個が皿に収まった実写調の状態写真へ変更。3個版で小さな部品へ変わった候補は不採用にし、同じ寸法の既存2個へ3個目を足す編集を採用。
+- タッチのドラッグはSVG内のg/rectへtouch-actionを指定するだけではブラウザにキャンセルされた。実際のpointercancelを記録し、操作中の外側SVGとstageにtouch-action:noneを指定して解消した。
+- 新しい受け皿写真を操作時に初めて読むと、素早い次のドラッグが待機中に無効になった。接写へ入る時に少数の状態写真を先にdecodeし、連続操作中の待機をなくした。
+
+## 検証
+
+PC1440×1000で部屋から接写→中央抜き→上/下スライド→各引抜き→自由端→取っ手→全景→再読込を写真座標のマウス操作で確認。スマートフォン390×844では実touchStart/Move/Endで下側からの別順、途中保存、受け皿の接写、戻し入れ、再度引抜き、開扉まで確認。最終のtouch-keeper-*画像はこの成功後に撮り直した。pageerrorなし。
+
+`keeper-wide-closed/open`は再読込まで待った最終状態。`keeper-initial/first-slide`は受け皿写真変更前の途中資料なので最終採用の証拠に使わない。
+
+書庫内は未制作のため、この段階の戸口はまだ制作中の案内になる。入口の金具完成を、書庫や全編の完成と扱わない。
